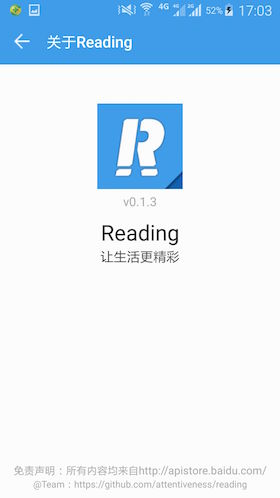
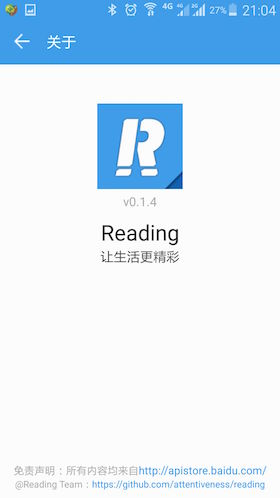
发布版本0.1.4

diff --git a/README.md b/README.md
@@ -6,8 +6,8 @@ Reading App Write In React-Native（Studying and Programing）
 
 ## Screenshot
 ![Reading_Splash](./screenshot/Reading_Splash.jpg) ![Reading_Main](./screenshot/Reading_Main.jpg)
-![Reading_Article](./screenshot/Reading_Article.jpg) ![Reading_Share](./screenshot/Reading_Share.jpg)
-![Reading_About](./screenshot/Reading_About.jpg)
+![Reading_Drawer](./screenshot/Reading_Drawer.jpg) ![Reading_Article](./screenshot/Reading_Article.jpg)
+![Reading_Share](./screenshot/Reading_Share.jpg) ![Reading_About](./screenshot/Reading_About.jpg)
 
 ## Download From Android Market
 *From 360 Android Market:* [Download Reading](http://zhushou.360.cn/detail/index/soft_id/3217938?recrefer=SE_D_Reading)
@@ -19,10 +19,10 @@ Reading App Write In React-Native（Studying and Programing）
 "dependencies": {
     "avoscloud-sdk": "^1.0.0-rc6",
     "immutable": "^3.7.5",
-    "react-native": "^0.20.0",
-    "react-native-code-push": "^1.7.0-beta",
-    "react-native-device-info": "^0.8.3",
-    "react-native-scrollable-tab-view": "^0.3.6",
+    "react-native": "^0.21.0",
+    "react-native-code-push": "^1.7.3-beta",
+    "react-native-device-info": "^0.8.4",
+    "react-native-scrollable-tab-view": "^0.4.0",
     "react-native-wechat": "^1.3.0",
     "react-redux": "^4.4.0",
     "redux": "^3.3.1",

diff --git a/Reading_Release_Note.md b/Reading_Release_Note.md
@@ -17,3 +17,14 @@
 >* 动态化数据流和UI渲染
 >* 接入腾讯bugly
 >* 升级react-native到0.19.0并升级相关依赖
+
+## 0.1.4
+>* 更改导航栏
+>* 增加侧边栏
+>* 增加建议反馈
+>* 增加分类选择功能
+>* 关于界面添加超链接
+>* 分享到微信好友样式改动
+
+### 技术改造
+>* 升级react-native到0.21.0并升级相关依赖
